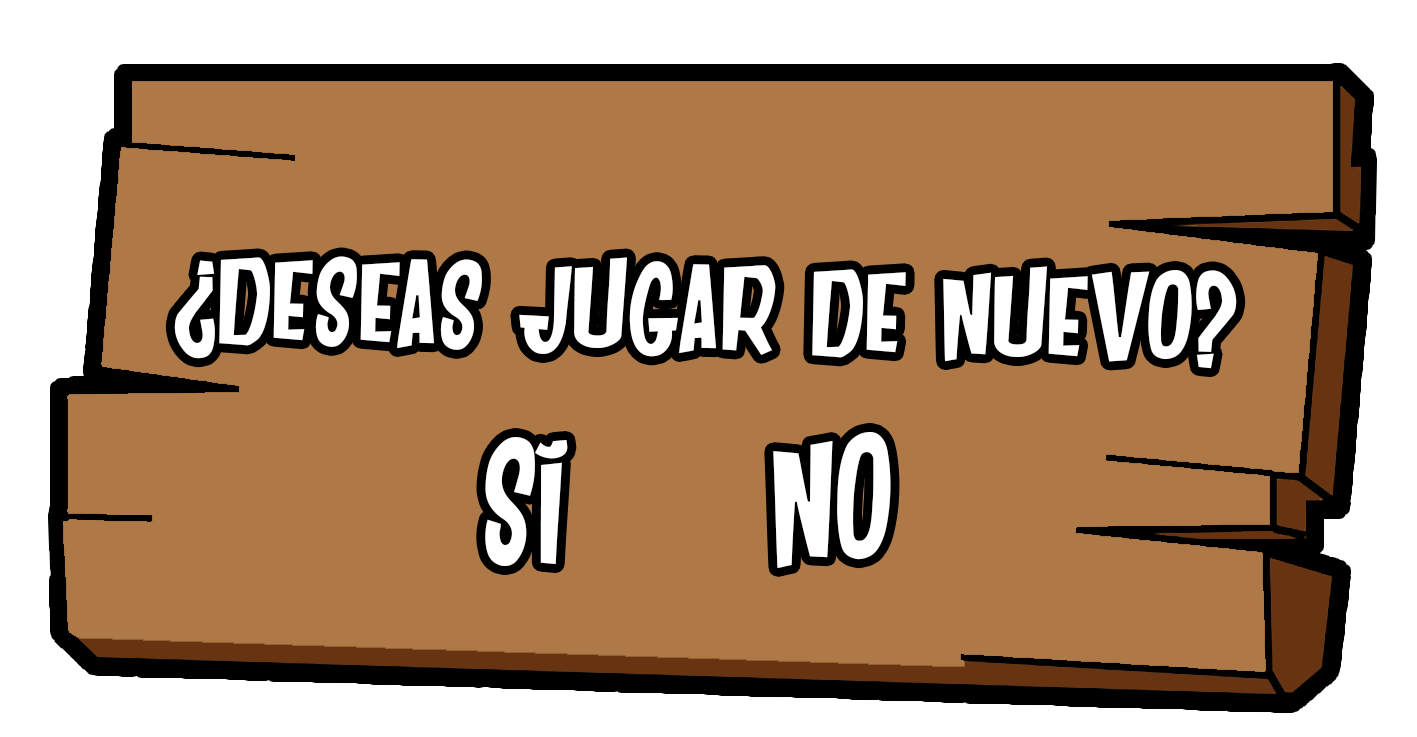
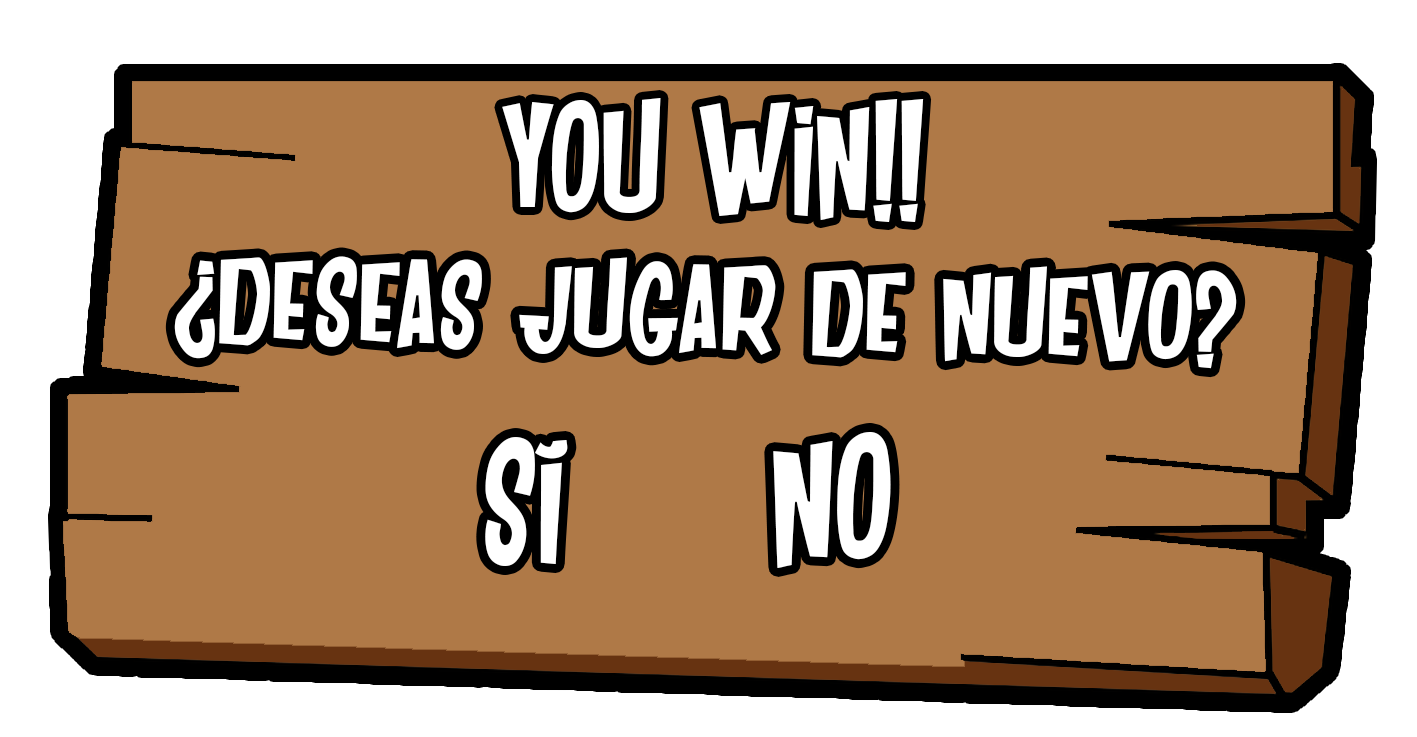
Subida Casti SopaLetras TERMINADA

Changed region(s): [[0.3416, 0.1248, 0.6831, 0.3121]]

diff --git a/Proyecto Final/MonoGame/MonoGame/Easy.cs b/Proyecto Final/MonoGame/MonoGame/Easy.cs
@@ -181,90 +181,90 @@ namespace MonoGame
         {
             MouseState mouseState = Mouse.GetState();
             var mousePosition = new Point(mouseState.X, mouseState.Y);
-            
 
-            if (mousePosition.X <= 450 && mousePosition.X >= 50 && mousePosition.Y <= 450 && mousePosition.Y >= 50)
+            if (GanarBool)
             {
-                
-                if (mouseState.LeftButton == ButtonState.Pressed)
-                {
-                    int PosSelecx = (mousePosition.X / 50) - 1;
-                    int PosSelecy = (mousePosition.Y / 50) - 1;
+                spriteBatch.Begin();
+                spriteBatch.Draw(Ganar, new Rectangle(10, 10, 890, 520), Color.White);
+                spriteBatch.End();
 
-                    UltimaY = PosSelecy;
-                    UltimaX = PosSelecx;
-                    while (PosSelecy == UltimaY || PosSelecx == UltimaX)
-                    {
-                        if (mousePosition.X <= 450 && mousePosition.Y <= 450 && mousePosition.X >= 50 && mousePosition.Y >= 50)
-                        {
-                            spriteBatch.Begin();
-                            spriteBatch.DrawString(Font, matriz[PosSelecx, PosSelecy], new Vector2((PosSelecx + 1) * 50 + 10, (PosSelecy + 1) * 50 + 10), Color.Red);
-                            matrizOK[PosSelecx, PosSelecy] = matriz[PosSelecx, PosSelecy];
-                            ABuscar = BuscarPalabraMatrizOK();
-                            spriteBatch.End();                            
-                        }
-                        UltimaY = mousePosition.Y;
-                        UltimaX = mousePosition.X;
-                    }                                       
-                }
-                else
+                mousePosition = new Point(mouseState.X, mouseState.Y);
+                if (si.Contains(mousePosition) && mouseState.LeftButton == ButtonState.Pressed)
                 {
-                    int i = 0;
-                    while (i < Palabras.Length && PalabraEncontrada==false)
-                    {
-                        if (ABuscar == Palabras[i])
-                        {
-                            ImagenABorrar = i;
-                            PalabraYaSeEncontro[i] = true;
-                            EncontradaOno = true;
-                            //Si varia la X o la Y, que tire error(corte seleccion)
-                            PalabraEncontrada = true;                            
-                            ImagenesCreadas = false;
-                            ContEncontradas++;
-                        }
-                        i++;                   
-                    }
-                    
-                    LimpiarMatrizOK();
-                    LimpiarSelected();
-                    cont = 0;
-                    PalabraEncontrada = false;
-                    //ReproducirSonido(EncontradaOno);//Si se encontro la palabra, se manda el true al metodo ReproducirSonido()
-                    //EncontradaOno = false;
+                    var JugarDeNuevo = new Easy();
+                    JugarDeNuevo.Run();//Vuelve a jugar el nivel
                 }
-                
+                if (no.Contains(mousePosition) && mouseState.LeftButton == ButtonState.Pressed)
+                {
+                    //Seleccionar nivel
+                    DibujarGanar = false;
+                    DibujarSalir = false;
+                }
             }
-            
+            else
+            {
+                if (mousePosition.X <= 450 && mousePosition.X >= 50 && mousePosition.Y <= 450 && mousePosition.Y >= 50)
+                {
+                    if (mouseState.LeftButton == ButtonState.Pressed)
+                    {
+                        int PosSelecx = (mousePosition.X / 50) - 1;
+                        int PosSelecy = (mousePosition.Y / 50) - 1;
 
+                        UltimaY = PosSelecy;
+                        UltimaX = PosSelecx;
+                        while (PosSelecy == UltimaY || PosSelecx == UltimaX)
+                        {
+                            if (mousePosition.X <= 450 && mousePosition.Y <= 450 && mousePosition.X >= 50 && mousePosition.Y >= 50)
+                            {
+                                spriteBatch.Begin();
+                                spriteBatch.DrawString(Font, matriz[PosSelecx, PosSelecy], new Vector2((PosSelecx + 1) * 50 + 10, (PosSelecy + 1) * 50 + 10), Color.Red);
+                                matrizOK[PosSelecx, PosSelecy] = matriz[PosSelecx, PosSelecy];
+                                ABuscar = BuscarPalabraMatrizOK();
+                                spriteBatch.End();
+                            }
+                            UltimaY = mousePosition.Y;
+                            UltimaX = mousePosition.X;
+                        }
+                    }
+                    else
+                    {
+                        int i = 0;
+                        while (i < Palabras.Length && PalabraEncontrada == false)
+                        {
+                            if (ABuscar == Palabras[i])
+                            {
+                                ImagenABorrar = i;
+                                PalabraYaSeEncontro[i] = true;
+                                EncontradaOno = true;
+                                //Si varia la X o la Y, que tire error(corte seleccion)
+                                PalabraEncontrada = true;
+                                ImagenesCreadas = false;
 
+                                if (PalabraYaSeEncontro[i] == true)//LO que pasaba es que si seleccionabas la misma palabras dos veces, conencontradas = 2
+                                {
+                                    ContEncontradas++;
+                                }
+                            }
+                            i++;
+                        }
+
+                        LimpiarMatrizOK();
+                        LimpiarSelected();
+                        cont = 0;
+                        PalabraEncontrada = false;
+                    }
+                }
+            }
 
             #region ganar
-            if (ContEncontradas == 6 && (PalabraYaSeEncontro[0] && PalabraYaSeEncontro[1] && PalabraYaSeEncontro[2] && PalabraYaSeEncontro[3] && PalabraYaSeEncontro[4] && PalabraYaSeEncontro[5]))
+            if (PalabraYaSeEncontro[0] && PalabraYaSeEncontro[1] && PalabraYaSeEncontro[2] && PalabraYaSeEncontro[3] && PalabraYaSeEncontro[4] && PalabraYaSeEncontro[5])//Pregunta si se encontro todas
             {
                 //EFECTOS DE GANASTE
                 GanarBool = true;
                 DibujarGanar = true;
-                if (DibujarGanar)
-                {
-                    spriteBatch.Begin();
-                    spriteBatch.Draw(Ganar, new Rectangle(10, 10, 890, 520), Color.White);
-                    spriteBatch.End();
-                }
-                if (GanarBool)
-                {
-                    mousePosition = new Point(mouseState.X, mouseState.Y);
-                    if (si.Contains(mousePosition) && mouseState.LeftButton == ButtonState.Pressed)
-                    {
-                        var JugarDeNuevo = new MonoGame.Easy();
-                        JugarDeNuevo.Run();//Vuelve a jugar el nivel
-                    }
-                    if (no.Contains(mousePosition) && mouseState.LeftButton == ButtonState.Pressed)
-                    {                       
-                        //Seleccionar nivel
-                        DibujarGanar = false;
-                        DibujarSalir = false;
-                    }
-                }
+               /* spriteBatch.Begin();
+                spriteBatch.Draw(Ganar, new Rectangle(10, 10, 890, 520), Color.White);
+                spriteBatch.End();*/
             }
             #endregion
 
@@ -396,19 +396,21 @@ namespace MonoGame
                 {
                     for (int columna = 0; columna <= 7; columna++)
                     {
-                        if (matrizOK[fila, columna] != null && (matrizOK[fila,columna] != mousePosition.X.ToString() && matrizOK[fila,columna] != mousePosition.Y.ToString()))
+                        if (matrizOK[fila, columna] != null && (matrizOK[fila, columna] != mousePosition.X.ToString() && matrizOK[fila, columna] != mousePosition.Y.ToString()))
                         {
                             spriteBatch.DrawString(Font, matriz[fila, columna], new Vector2((fila + 1) * 50 + 10, (columna + 1) * 50 + 10), Color.Red/*color Seleccionado actual*/);
                         }
-                        else 
+                        else
                         {
-                            if (PosicionPalabra.IndexOf(fila.ToString() + "," + columna.ToString()) > -1)//Que pregunte si la palabra elegida es una de las palabras 
+                            if (PosicionPalabra.IndexOf(fila.ToString() + "," + columna.ToString()) > -1)
                             {                                                      
                                 spriteBatch.DrawString(Font, matriz[fila, columna], new Vector2((fila + 1) * 50 + 10, (columna + 1) * 50 + 10), Color.Green/*Color Palabra Ya encontrada*/);
+                                ReproducirSonido(true);//reproduce el sonido de correcto
                             }
                             else
                             {
                                 spriteBatch.DrawString(Font, matriz[fila, columna], new Vector2((fila + 1) * 50 + 10, (columna + 1) * 50 + 10), Color.Black/*Color Letras default*/);
+                                ReproducirSonido(false);//reproduce el sonido de incorrecto
                             }
                         }
                     }
@@ -428,6 +430,12 @@ namespace MonoGame
                 }
                 spriteBatch.End();
             }
+            /*else
+            {
+                spriteBatch.Begin();
+                spriteBatch.Draw(Ganar, new Rectangle(10, 10, 890, 520), Color.White);
+                spriteBatch.End();
+            }*/
             base.Draw(gameTime);
         }
     }
